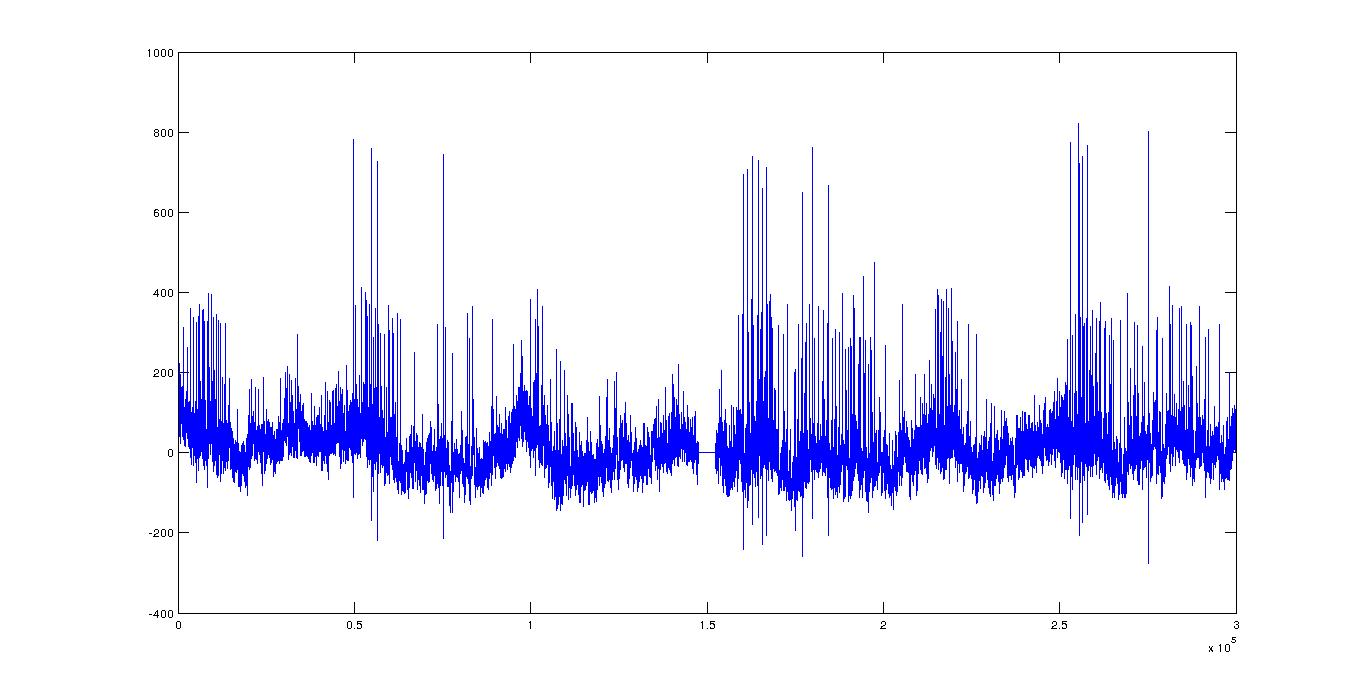
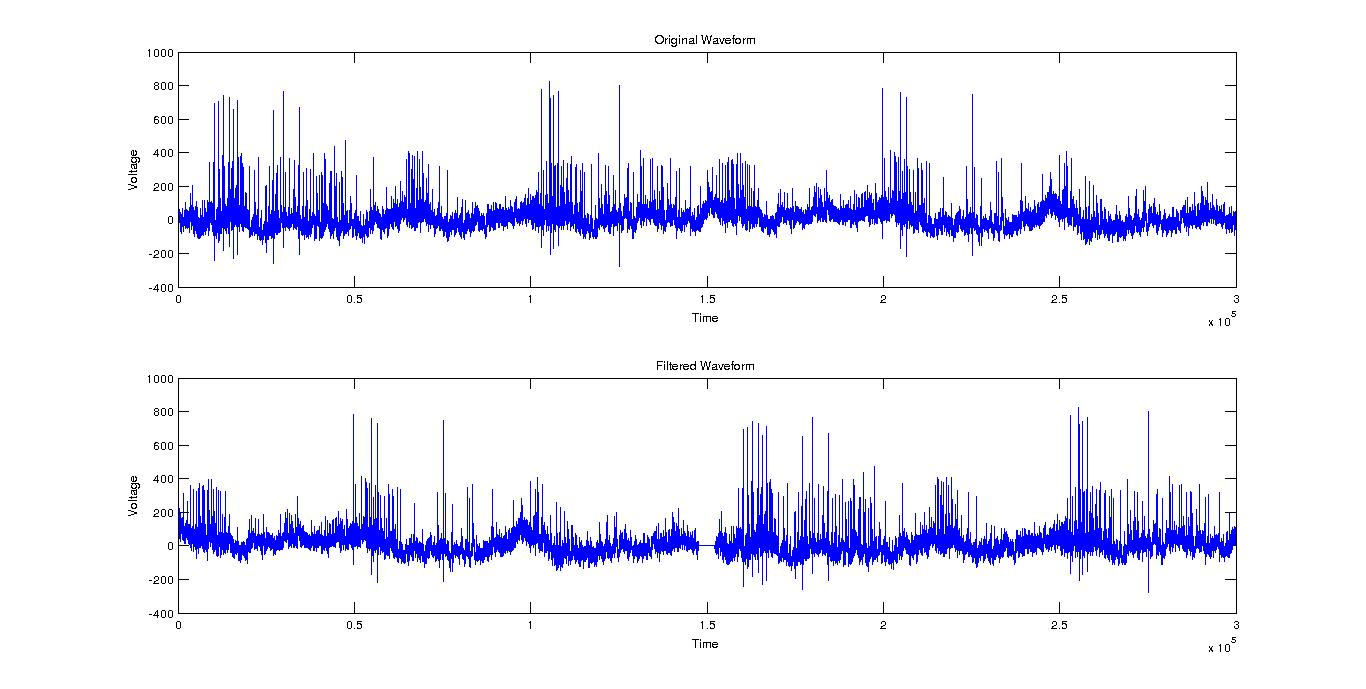
Final commit most probably

Changed region(s): [[0.123, 0.1524, 0.9224, 0.8229], [0.0922, 0.2134, 0.123, 0.2438]]

diff --git a/q3.m b/q3.m
@@ -1,9 +1,19 @@
 load ps5_data.mat
 
+% Same code used for question 3 - 5 . Generated the results by changing
+% just the initial data set
+
+%  For Problem 3
 % mean_vectors = InitTwoClusters_1;
-mean_vectors = InitTwoClusters_2;
+
+% For Problem 4
+% mean_vectors = InitTwoClusters_2;
+
+% For Problem 5a
 % mean_vectors = InitThreeClusters_1;
-% mean_vectors = InitThreeClusters_2;
+
+% For Problem 5b
+mean_vectors = InitThreeClusters_2;
 
 SAMPLE_LENGTH = 31;
 PREV_SAMPLES = 10;
@@ -53,7 +63,13 @@ iter_count = 0;
 while(1)
     iter_count = iter_count + 1;
     % E Step
-    dist = pdist2(mean_vectors', snippets');
+    dist = zeros(NUM_OF_CLUSTERS, NUM_OF_POINTS);
+    for i=1:NUM_OF_CLUSTERS
+        for j=1:NUM_OF_POINTS
+            dist(i, j) = sum(abs(mean_vectors(:,i) - snippets(:, j)));
+        end
+    end
+%     dist = pdist2(mean_vectors', snippets');
     for j=1:NUM_OF_CLUSTERS
         r(j, :) = dist(j, :) == min(dist);
     end
@@ -74,7 +90,8 @@ while(1)
     J_iter = 0;
     for i=1:NUM_OF_POINTS
         for j=1:NUM_OF_CLUSTERS
-            J_iter = J_iter + norm(snippets(:,i) - mean_vectors(:,j)) .* r(j, i);
+%             J_iter = J_iter + norm(snippets(:,i) - mean_vectors(:,j)) .* r(j, i);
+            J_iter = J_iter + sum(abs(mean_vectors(:,j) - snippets(:, i))) .* r(j, i);
         end
     end
     J = [J;J_iter];

diff --git a/q2.m b/q2.m
@@ -19,7 +19,7 @@ subplot(2,1,1);
 plot(x_filtered);
 hold on
 V_th  = ones(size(x_filtered,1),1).*250;
-plot(V_th,'k');
+plot(V_th,'r');
 
 x_filtered_shifted = [0; x_filtered(1:size(x_filtered, 1) -1)];
 above_th_locs = find((x_filtered > V_th) & (x_filtered_shifted < V_th));
@@ -29,9 +29,9 @@ for i=1:size(above_th_locs,1)
 end
 save snippets.mat snippets
 subplot(2,1,2);
-plot(V_th(1:SAMPLE_LENGTH),'k');
-hold on
 for i=1:size(above_th_locs,1)
     plot(snippets(:,i));
     hold on
 end
+plot(V_th(1:SAMPLE_LENGTH),'r');
+hold on

diff --git a/q1.m b/q1.m
@@ -9,5 +9,17 @@ f_all = linspace(-f_Nyquist,f_Nyquist,n);
 desired_response = ones(n,1);
 desired_response(abs(f_all)<=f_stop) = 0;
 x_filtered = real(fftshift(ifft(fft(x.*fftshift(desired_response)))));
+
+title('Question 1');
+subplot(2,1,1)
+plot(x);
+xlabel('Time');
+ylabel('Voltage');
+title('Original Waveform');
+
+subplot(2,1,2)
 plot(x_filtered);
+xlabel('Time');
+ylabel('Voltage');
+title('Filtered Waveform');
 sound(x_filtered*.97/max(abs(x_filtered)),f_0);
